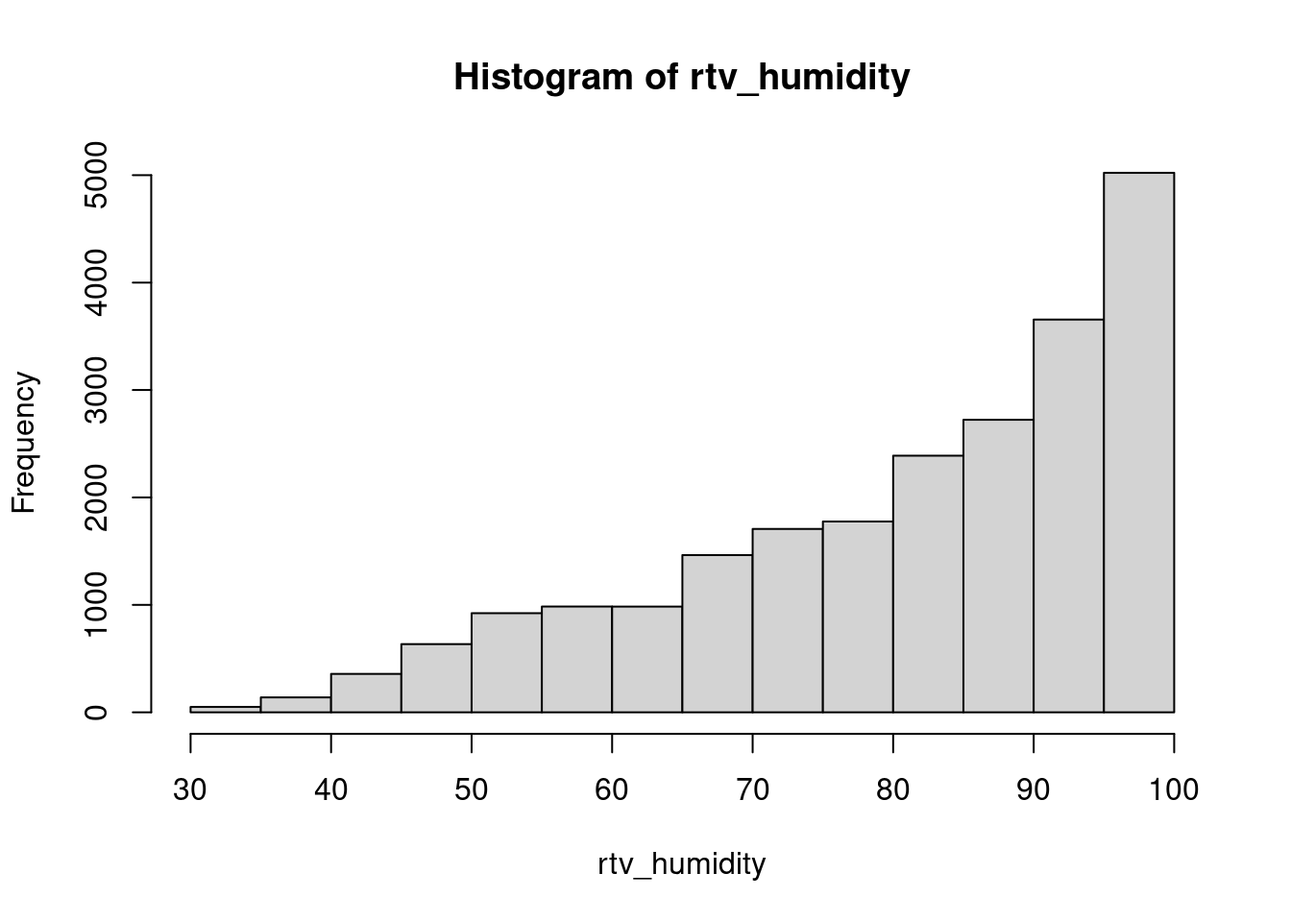
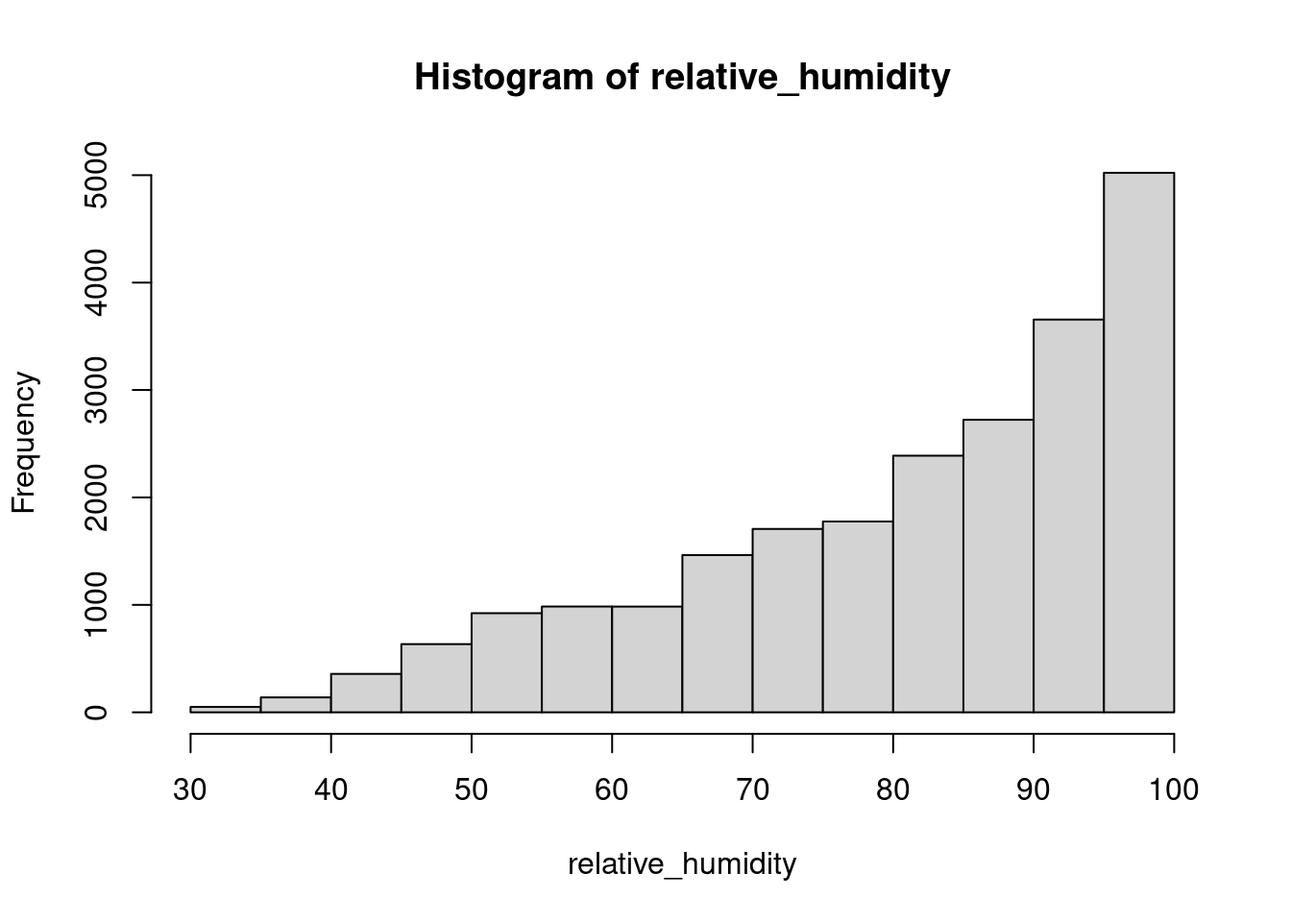
note

Changed region(s): [[0.3125, 0.0625, 0.75, 0.125], [0.4375, 0.9062, 0.625, 0.9688]]

diff --git a/docs/index.html b/docs/index.html
@@ -82,7 +82,7 @@ pre > code.sourceCode > span > a:first-child::before { text-decoration: underlin
   <li><a href="#data-and-packages" id="toc-data-and-packages" class="nav-link active" data-scroll-target="#data-and-packages">Data and Packages</a></li>
   <li><a href="#take-a-glimpse" id="toc-take-a-glimpse" class="nav-link" data-scroll-target="#take-a-glimpse">Take a glimpse</a></li>
   <li><a href="#basic-descriptive-statistic" id="toc-basic-descriptive-statistic" class="nav-link" data-scroll-target="#basic-descriptive-statistic">Basic descriptive statistic</a></li>
-  <li><a href="#distribution-of-the-t-and-h" id="toc-distribution-of-the-t-and-h" class="nav-link" data-scroll-target="#distribution-of-the-t-and-h">Distribution of the T and H</a></li>
+  <li><a href="#distribution-of-the-temperature-and-humidity" id="toc-distribution-of-the-temperature-and-humidity" class="nav-link" data-scroll-target="#distribution-of-the-temperature-and-humidity">Distribution of the Temperature and Humidity</a></li>
   <li><a href="#distribution-during-the-day-hourly" id="toc-distribution-during-the-day-hourly" class="nav-link" data-scroll-target="#distribution-during-the-day-hourly">Distribution during the day (Hourly)</a></li>
   <li><a href="#daily-max-and-min-distribution" id="toc-daily-max-and-min-distribution" class="nav-link" data-scroll-target="#daily-max-and-min-distribution">Daily Max and Min distribution</a></li>
   </ul>
@@ -141,7 +141,7 @@ $ temp_wew &lt;dbl&gt; 19.5, 20.5, 20.5, 20.0, 19.5, 18.5, 18.0, 17.5, 17.5, 17.
 $ rh       &lt;dbl&gt; 60.1, 57.6, 55.0, 53.9, 53.8, 55.0, 59.6, 61.5, 66.3, 66.9, 6…</code></pre>
 </div>
 </div>
-<p>Split the datetime column to filter with different through time variable</p>
+<p>Split the datetime column to filter through different time variable</p>
 <div class="cell">
 <div class="sourceCode cell-code" id="cb5"><pre class="sourceCode r code-with-copy"><code class="sourceCode r"><span id="cb5-1"><a href="#cb5-1" aria-hidden="true" tabindex="-1"></a>data2 <span class="ot">&lt;-</span> <span class="fu">separate</span>(file, <span class="at">col =</span> datetime, <span class="at">into =</span> <span class="fu">c</span>(<span class="st">"Date"</span>, <span class="st">"Time"</span>), <span class="at">sep =</span> <span class="st">" "</span>)</span>
 <span id="cb5-2"><a href="#cb5-2" aria-hidden="true" tabindex="-1"></a>data <span class="ot">&lt;-</span> <span class="fu">separate</span>(data2, <span class="at">col =</span> Date, <span class="at">into =</span> <span class="fu">c</span>(<span class="st">"Year"</span>, <span class="st">"Month"</span>, <span class="st">"Day"</span>), <span class="at">sep =</span> <span class="st">"-"</span>)</span></code><button title="Copy to Clipboard" class="code-copy-button"><i class="bi"></i></button></pre></div>
@@ -171,12 +171,12 @@ $ rh       &lt;dbl&gt; 60.1, 57.6, 55.0, 53.9, 53.8, 55.0, 59.6, 61.5, 66.3, 66.
                  NA's   :1583   </code></pre>
 </div>
 </div>
-<p>Generating the variance and Std</p>
+<p>Generating the variance and Standard deviation</p>
 <div class="cell">
 <div class="sourceCode cell-code" id="cb8"><pre class="sourceCode r code-with-copy"><code class="sourceCode r"><span id="cb8-1"><a href="#cb8-1" aria-hidden="true" tabindex="-1"></a>data <span class="sc">|&gt;</span> </span>
-<span id="cb8-2"><a href="#cb8-2" aria-hidden="true" tabindex="-1"></a>  <span class="fu">summarise</span>(<span class="at">VarT =</span> <span class="fu">var</span>(temp_wew), <span class="at">VarH =</span> <span class="fu">var</span>(rh, <span class="at">na.rm =</span> <span class="cn">TRUE</span>), <span class="at">StdT =</span> <span class="fu">sd</span>(temp_wew), <span class="at">StdH =</span> <span class="fu">sd</span>(rh, <span class="at">na.rm =</span> <span class="cn">TRUE</span>))</span></code><button title="Copy to Clipboard" class="code-copy-button"><i class="bi"></i></button></pre></div>
+<span id="cb8-2"><a href="#cb8-2" aria-hidden="true" tabindex="-1"></a>  <span class="fu">summarise</span>(<span class="at">Var_Temp =</span> <span class="fu">var</span>(temp_wew), <span class="at">Var_Hum =</span> <span class="fu">var</span>(rh, <span class="at">na.rm =</span> <span class="cn">TRUE</span>), <span class="at">Std_Temp =</span> <span class="fu">sd</span>(temp_wew), <span class="at">Std_Hum =</span> <span class="fu">sd</span>(rh, <span class="at">na.rm =</span> <span class="cn">TRUE</span>))</span></code><button title="Copy to Clipboard" class="code-copy-button"><i class="bi"></i></button></pre></div>
 <div class="cell-output cell-output-stdout">
-<pre><code>      VarT     VarH     StdT     StdH
+<pre><code>  Var_Temp  Var_Hum Std_Temp  Std_Hum
 1 11.76777 253.5742 3.430418 15.92401</code></pre>
 </div>
 </div>
@@ -184,10 +184,10 @@ $ rh       &lt;dbl&gt; 60.1, 57.6, 55.0, 53.9, 53.8, 55.0, 59.6, 61.5, 66.3, 66.
 <div class="sourceCode cell-code" id="cb10"><pre class="sourceCode r code-with-copy"><code class="sourceCode r"><span id="cb10-1"><a href="#cb10-1" aria-hidden="true" tabindex="-1"></a>file[<span class="st">"month"</span>] <span class="ot">&lt;-</span> data[[<span class="st">"Month"</span>]]</span></code><button title="Copy to Clipboard" class="code-copy-button"><i class="bi"></i></button></pre></div>
 </div>
 </section>
-<section id="distribution-of-the-t-and-h" class="level3">
-<h3 class="anchored" data-anchor-id="distribution-of-the-t-and-h">Distribution of the T and H</h3>
+<section id="distribution-of-the-temperature-and-humidity" class="level3">
+<h3 class="anchored" data-anchor-id="distribution-of-the-temperature-and-humidity">Distribution of the Temperature and Humidity</h3>
 <div class="cell">
-<div class="sourceCode cell-code" id="cb11"><pre class="sourceCode r code-with-copy"><code class="sourceCode r"><span id="cb11-1"><a href="#cb11-1" aria-hidden="true" tabindex="-1"></a><span class="co"># Distributio of Temperature</span></span>
+<div class="sourceCode cell-code" id="cb11"><pre class="sourceCode r code-with-copy"><code class="sourceCode r"><span id="cb11-1"><a href="#cb11-1" aria-hidden="true" tabindex="-1"></a><span class="co"># Distribution of Temperature</span></span>
 <span id="cb11-2"><a href="#cb11-2" aria-hidden="true" tabindex="-1"></a>Temperature <span class="ot">&lt;-</span> file<span class="sc">$</span>temp_wew</span>
 <span id="cb11-3"><a href="#cb11-3" aria-hidden="true" tabindex="-1"></a><span class="fu">hist</span>(Temperature)</span></code><button title="Copy to Clipboard" class="code-copy-button"><i class="bi"></i></button></pre></div>
 <div class="cell-output-display">
@@ -201,8 +201,8 @@ $ rh       &lt;dbl&gt; 60.1, 57.6, 55.0, 53.9, 53.8, 55.0, 59.6, 61.5, 66.3, 66.
 <p>Temperature distribution is normally distributed, but there is appearance of almost two peaks.</p>
 <div class="cell">
 <div class="sourceCode cell-code" id="cb12"><pre class="sourceCode r code-with-copy"><code class="sourceCode r"><span id="cb12-1"><a href="#cb12-1" aria-hidden="true" tabindex="-1"></a><span class="co"># Distributio of Humidity</span></span>
-<span id="cb12-2"><a href="#cb12-2" aria-hidden="true" tabindex="-1"></a>rtv_humidity <span class="ot">&lt;-</span> file<span class="sc">$</span>rh</span>
-<span id="cb12-3"><a href="#cb12-3" aria-hidden="true" tabindex="-1"></a><span class="fu">hist</span>(rtv_humidity)</span></code><button title="Copy to Clipboard" class="code-copy-button"><i class="bi"></i></button></pre></div>
+<span id="cb12-2"><a href="#cb12-2" aria-hidden="true" tabindex="-1"></a>relative_humidity <span class="ot">&lt;-</span> file<span class="sc">$</span>rh</span>
+<span id="cb12-3"><a href="#cb12-3" aria-hidden="true" tabindex="-1"></a><span class="fu">hist</span>(relative_humidity)</span></code><button title="Copy to Clipboard" class="code-copy-button"><i class="bi"></i></button></pre></div>
 <div class="cell-output-display">
 <div>
 <figure class="figure">
@@ -212,12 +212,18 @@ $ rh       &lt;dbl&gt; 60.1, 57.6, 55.0, 53.9, 53.8, 55.0, 59.6, 61.5, 66.3, 66.
 </div>
 </div>
 <p>Humidity distribution is not normally distributed over the year. higher humidity is prevalent</p>
-<p><em>Temperature Distribuion indicating different month of the year</em></p>
+<p><em>Temperature Distribution indicating different month of the year</em></p>
 <div class="cell">
 <div class="sourceCode cell-code" id="cb13"><pre class="sourceCode r code-with-copy"><code class="sourceCode r"><span id="cb13-1"><a href="#cb13-1" aria-hidden="true" tabindex="-1"></a>file <span class="sc">|&gt;</span> </span>
 <span id="cb13-2"><a href="#cb13-2" aria-hidden="true" tabindex="-1"></a>  <span class="fu">ggplot</span>(<span class="fu">aes</span>(<span class="at">x=</span> datetime, <span class="at">y =</span> temp_wew, <span class="at">colour =</span> month)) <span class="sc">+</span></span>
 <span id="cb13-3"><a href="#cb13-3" aria-hidden="true" tabindex="-1"></a>  <span class="fu">geom_point</span>()<span class="sc">+</span></span>
-<span id="cb13-4"><a href="#cb13-4" aria-hidden="true" tabindex="-1"></a>  <span class="fu">geom_hline</span>(<span class="at">yintercept =</span> <span class="dv">23</span>)</span></code><button title="Copy to Clipboard" class="code-copy-button"><i class="bi"></i></button></pre></div>
+<span id="cb13-4"><a href="#cb13-4" aria-hidden="true" tabindex="-1"></a>  <span class="fu">geom_hline</span>(<span class="at">yintercept =</span> <span class="dv">23</span>) <span class="sc">+</span></span>
+<span id="cb13-5"><a href="#cb13-5" aria-hidden="true" tabindex="-1"></a>  <span class="fu">labs</span>(</span>
+<span id="cb13-6"><a href="#cb13-6" aria-hidden="true" tabindex="-1"></a>    <span class="at">title =</span> <span class="st">"Daily Distribution of Temperature"</span>,</span>
+<span id="cb13-7"><a href="#cb13-7" aria-hidden="true" tabindex="-1"></a>      <span class="at">x =</span> <span class="st">"Day Time"</span>,</span>
+<span id="cb13-8"><a href="#cb13-8" aria-hidden="true" tabindex="-1"></a>      <span class="at">y =</span> <span class="st">"Average Temperature (°C)"</span>,</span>
+<span id="cb13-9"><a href="#cb13-9" aria-hidden="true" tabindex="-1"></a>      <span class="at">colour =</span> <span class="st">"Month"</span></span>
+<span id="cb13-10"><a href="#cb13-10" aria-hidden="true" tabindex="-1"></a>  )</span></code><button title="Copy to Clipboard" class="code-copy-button"><i class="bi"></i></button></pre></div>
 <div class="cell-output-display">
 <div>
 <figure class="figure">
@@ -234,7 +240,12 @@ $ rh       &lt;dbl&gt; 60.1, 57.6, 55.0, 53.9, 53.8, 55.0, 59.6, 61.5, 66.3, 66.
 <span id="cb14-3"><a href="#cb14-3" aria-hidden="true" tabindex="-1"></a>  <span class="fu">summarise</span>(<span class="at">AverageT =</span> <span class="fu">mean</span>(temp_wew), <span class="at">AverageH =</span> <span class="fu">mean</span>(rh, <span class="at">na.rm =</span> <span class="cn">TRUE</span>)) <span class="sc">|&gt;</span> </span>
 <span id="cb14-4"><a href="#cb14-4" aria-hidden="true" tabindex="-1"></a>    <span class="fu">ggplot</span>(<span class="fu">aes</span>(<span class="at">x =</span> Month,<span class="at">y =</span>AverageT, <span class="at">group =</span> <span class="dv">1</span>)) <span class="sc">+</span></span>
 <span id="cb14-5"><a href="#cb14-5" aria-hidden="true" tabindex="-1"></a>  <span class="fu">geom_line</span>(<span class="at">colour =</span> <span class="st">"blue"</span>) <span class="sc">+</span></span>
-<span id="cb14-6"><a href="#cb14-6" aria-hidden="true" tabindex="-1"></a>  <span class="fu">geom_point</span>() </span></code><button title="Copy to Clipboard" class="code-copy-button"><i class="bi"></i></button></pre></div>
+<span id="cb14-6"><a href="#cb14-6" aria-hidden="true" tabindex="-1"></a>  <span class="fu">geom_point</span>() <span class="sc">+</span></span>
+<span id="cb14-7"><a href="#cb14-7" aria-hidden="true" tabindex="-1"></a>  <span class="fu">labs</span>(</span>
+<span id="cb14-8"><a href="#cb14-8" aria-hidden="true" tabindex="-1"></a>    <span class="at">title =</span> <span class="st">"Monthly Distribution of Temperature"</span>,</span>
+<span id="cb14-9"><a href="#cb14-9" aria-hidden="true" tabindex="-1"></a>      <span class="at">x =</span> <span class="st">"Month of the year"</span>,</span>
+<span id="cb14-10"><a href="#cb14-10" aria-hidden="true" tabindex="-1"></a>      <span class="at">y =</span> <span class="st">"Average Temperature (°C)"</span></span>
+<span id="cb14-11"><a href="#cb14-11" aria-hidden="true" tabindex="-1"></a>  )</span></code><button title="Copy to Clipboard" class="code-copy-button"><i class="bi"></i></button></pre></div>
 <div class="cell-output-display">
 <div>
 <figure class="figure">
@@ -247,7 +258,12 @@ $ rh       &lt;dbl&gt; 60.1, 57.6, 55.0, 53.9, 53.8, 55.0, 59.6, 61.5, 66.3, 66.
 <div class="cell">
 <div class="sourceCode cell-code" id="cb15"><pre class="sourceCode r code-with-copy"><code class="sourceCode r"><span id="cb15-1"><a href="#cb15-1" aria-hidden="true" tabindex="-1"></a>data <span class="sc">|&gt;</span> </span>
 <span id="cb15-2"><a href="#cb15-2" aria-hidden="true" tabindex="-1"></a>  <span class="fu">ggplot</span>(<span class="fu">aes</span>(<span class="at">y =</span> temp_wew, <span class="at">x =</span> Month))<span class="sc">+</span></span>
-<span id="cb15-3"><a href="#cb15-3" aria-hidden="true" tabindex="-1"></a>  <span class="fu">geom_boxplot</span>()</span></code><button title="Copy to Clipboard" class="code-copy-button"><i class="bi"></i></button></pre></div>
+<span id="cb15-3"><a href="#cb15-3" aria-hidden="true" tabindex="-1"></a>  <span class="fu">geom_boxplot</span>()  <span class="sc">+</span></span>
+<span id="cb15-4"><a href="#cb15-4" aria-hidden="true" tabindex="-1"></a>  <span class="fu">labs</span>(</span>
+<span id="cb15-5"><a href="#cb15-5" aria-hidden="true" tabindex="-1"></a>    <span class="at">title =</span> <span class="st">"Monthly Distribution of Temperature"</span>,</span>
+<span id="cb15-6"><a href="#cb15-6" aria-hidden="true" tabindex="-1"></a>      <span class="at">x =</span> <span class="st">"Month of the year"</span>,</span>
+<span id="cb15-7"><a href="#cb15-7" aria-hidden="true" tabindex="-1"></a>      <span class="at">y =</span> <span class="st">"Average Temperature (°C)"</span></span>
+<span id="cb15-8"><a href="#cb15-8" aria-hidden="true" tabindex="-1"></a>  )</span></code><button title="Copy to Clipboard" class="code-copy-button"><i class="bi"></i></button></pre></div>
 <div class="cell-output-display">
 <div>
 <figure class="figure">
@@ -260,7 +276,13 @@ $ rh       &lt;dbl&gt; 60.1, 57.6, 55.0, 53.9, 53.8, 55.0, 59.6, 61.5, 66.3, 66.
 <div class="cell">
 <div class="sourceCode cell-code" id="cb16"><pre class="sourceCode r code-with-copy"><code class="sourceCode r"><span id="cb16-1"><a href="#cb16-1" aria-hidden="true" tabindex="-1"></a>file <span class="sc">|&gt;</span> </span>
 <span id="cb16-2"><a href="#cb16-2" aria-hidden="true" tabindex="-1"></a>  <span class="fu">ggplot</span>(<span class="fu">aes</span>(<span class="at">x=</span> datetime, <span class="at">y =</span> rh, <span class="at">colour =</span> month)) <span class="sc">+</span></span>
-<span id="cb16-3"><a href="#cb16-3" aria-hidden="true" tabindex="-1"></a>  <span class="fu">geom_point</span>()</span></code><button title="Copy to Clipboard" class="code-copy-button"><i class="bi"></i></button></pre></div>
+<span id="cb16-3"><a href="#cb16-3" aria-hidden="true" tabindex="-1"></a>  <span class="fu">geom_point</span>() <span class="sc">+</span></span>
+<span id="cb16-4"><a href="#cb16-4" aria-hidden="true" tabindex="-1"></a>  <span class="fu">labs</span>(</span>
+<span id="cb16-5"><a href="#cb16-5" aria-hidden="true" tabindex="-1"></a>    <span class="at">title =</span> <span class="st">"Daily Distribution of Temperature"</span>,</span>
+<span id="cb16-6"><a href="#cb16-6" aria-hidden="true" tabindex="-1"></a>      <span class="at">x =</span> <span class="st">"Day Time"</span>,</span>
+<span id="cb16-7"><a href="#cb16-7" aria-hidden="true" tabindex="-1"></a>      <span class="at">y =</span> <span class="st">"Average Temperature (°C)"</span>,</span>
+<span id="cb16-8"><a href="#cb16-8" aria-hidden="true" tabindex="-1"></a>      <span class="at">colour =</span> <span class="st">"Month"</span></span>
+<span id="cb16-9"><a href="#cb16-9" aria-hidden="true" tabindex="-1"></a>  )</span></code><button title="Copy to Clipboard" class="code-copy-button"><i class="bi"></i></button></pre></div>
 <div class="cell-output cell-output-stderr">
 <pre><code>Warning: Removed 1583 rows containing missing values or values outside the scale range
 (`geom_point()`).</code></pre>
@@ -280,7 +302,12 @@ $ rh       &lt;dbl&gt; 60.1, 57.6, 55.0, 53.9, 53.8, 55.0, 59.6, 61.5, 66.3, 66.
 <span id="cb18-3"><a href="#cb18-3" aria-hidden="true" tabindex="-1"></a>  <span class="fu">summarise</span>(<span class="at">AverageT =</span> <span class="fu">mean</span>(temp_wew), <span class="at">AverageH =</span> <span class="fu">mean</span>(rh, <span class="at">na.rm =</span> <span class="cn">TRUE</span>)) <span class="sc">|&gt;</span> </span>
 <span id="cb18-4"><a href="#cb18-4" aria-hidden="true" tabindex="-1"></a>    <span class="fu">ggplot</span>(<span class="fu">aes</span>(<span class="at">x =</span> Month,<span class="at">y =</span>AverageH, <span class="at">group =</span> <span class="dv">1</span>)) <span class="sc">+</span></span>
 <span id="cb18-5"><a href="#cb18-5" aria-hidden="true" tabindex="-1"></a>  <span class="fu">geom_line</span>(<span class="at">colour =</span> <span class="st">"green"</span>) <span class="sc">+</span></span>
-<span id="cb18-6"><a href="#cb18-6" aria-hidden="true" tabindex="-1"></a>  <span class="fu">geom_point</span>() </span></code><button title="Copy to Clipboard" class="code-copy-button"><i class="bi"></i></button></pre></div>
+<span id="cb18-6"><a href="#cb18-6" aria-hidden="true" tabindex="-1"></a>  <span class="fu">geom_point</span>()  <span class="sc">+</span></span>
+<span id="cb18-7"><a href="#cb18-7" aria-hidden="true" tabindex="-1"></a>  <span class="fu">labs</span>(</span>
+<span id="cb18-8"><a href="#cb18-8" aria-hidden="true" tabindex="-1"></a>    <span class="at">title =</span> <span class="st">"Monthly Distribution of Relative Humidity"</span>,</span>
+<span id="cb18-9"><a href="#cb18-9" aria-hidden="true" tabindex="-1"></a>      <span class="at">x =</span> <span class="st">"Month of the year"</span>,</span>
+<span id="cb18-10"><a href="#cb18-10" aria-hidden="true" tabindex="-1"></a>      <span class="at">y =</span> <span class="st">"Average Relative Humidity (%)"</span></span>
+<span id="cb18-11"><a href="#cb18-11" aria-hidden="true" tabindex="-1"></a>  )</span></code><button title="Copy to Clipboard" class="code-copy-button"><i class="bi"></i></button></pre></div>
 <div class="cell-output-display">
 <div>
 <figure class="figure">
@@ -293,7 +320,12 @@ $ rh       &lt;dbl&gt; 60.1, 57.6, 55.0, 53.9, 53.8, 55.0, 59.6, 61.5, 66.3, 66.
 <div class="cell">
 <div class="sourceCode cell-code" id="cb19"><pre class="sourceCode r code-with-copy"><code class="sourceCode r"><span id="cb19-1"><a href="#cb19-1" aria-hidden="true" tabindex="-1"></a>data <span class="sc">|&gt;</span> </span>
 <span id="cb19-2"><a href="#cb19-2" aria-hidden="true" tabindex="-1"></a>  <span class="fu">ggplot</span>(<span class="fu">aes</span>(<span class="at">y =</span> rh, <span class="at">x =</span> Month))<span class="sc">+</span></span>
-<span id="cb19-3"><a href="#cb19-3" aria-hidden="true" tabindex="-1"></a>  <span class="fu">geom_boxplot</span>()</span></code><button title="Copy to Clipboard" class="code-copy-button"><i class="bi"></i></button></pre></div>
+<span id="cb19-3"><a href="#cb19-3" aria-hidden="true" tabindex="-1"></a>  <span class="fu">geom_boxplot</span>()  <span class="sc">+</span></span>
+<span id="cb19-4"><a href="#cb19-4" aria-hidden="true" tabindex="-1"></a>  <span class="fu">labs</span>(</span>
+<span id="cb19-5"><a href="#cb19-5" aria-hidden="true" tabindex="-1"></a>    <span class="at">title =</span> <span class="st">"Monthly Distribution of Relative Humidity"</span>,</span>
+<span id="cb19-6"><a href="#cb19-6" aria-hidden="true" tabindex="-1"></a>      <span class="at">x =</span> <span class="st">"Month of the year"</span>,</span>
+<span id="cb19-7"><a href="#cb19-7" aria-hidden="true" tabindex="-1"></a>      <span class="at">y =</span> <span class="st">"Average Relative Humidity (%)"</span></span>
+<span id="cb19-8"><a href="#cb19-8" aria-hidden="true" tabindex="-1"></a>  )</span></code><button title="Copy to Clipboard" class="code-copy-button"><i class="bi"></i></button></pre></div>
 <div class="cell-output cell-output-stderr">
 <pre><code>Warning: Removed 1583 rows containing non-finite outside the scale range
 (`stat_boxplot()`).</code></pre>
@@ -318,7 +350,12 @@ $ rh       &lt;dbl&gt; 60.1, 57.6, 55.0, 53.9, 53.8, 55.0, 59.6, 61.5, 66.3, 66.
 <span id="cb21-4"><a href="#cb21-4" aria-hidden="true" tabindex="-1"></a>  <span class="fu">ggplot</span>(<span class="fu">aes</span>(<span class="at">x =</span> Time,<span class="at">y =</span>AverageT, <span class="at">group =</span> <span class="dv">1</span>)) <span class="sc">+</span></span>
 <span id="cb21-5"><a href="#cb21-5" aria-hidden="true" tabindex="-1"></a>  <span class="fu">geom_line</span>(<span class="at">colour =</span> <span class="st">"blue"</span>) <span class="sc">+</span></span>
 <span id="cb21-6"><a href="#cb21-6" aria-hidden="true" tabindex="-1"></a>  <span class="fu">geom_point</span>() <span class="sc">+</span></span>
-<span id="cb21-7"><a href="#cb21-7" aria-hidden="true" tabindex="-1"></a>  <span class="fu">theme</span>(<span class="at">axis.text.x =</span> <span class="fu">element_text</span>(<span class="at">angle =</span> <span class="dv">45</span>, <span class="at">hjust =</span> <span class="dv">1</span>))</span></code><button title="Copy to Clipboard" class="code-copy-button"><i class="bi"></i></button></pre></div>
+<span id="cb21-7"><a href="#cb21-7" aria-hidden="true" tabindex="-1"></a>  <span class="fu">labs</span>(</span>
+<span id="cb21-8"><a href="#cb21-8" aria-hidden="true" tabindex="-1"></a>    <span class="at">title =</span> <span class="st">"Hourly Distribution of Temperature"</span>,</span>
+<span id="cb21-9"><a href="#cb21-9" aria-hidden="true" tabindex="-1"></a>      <span class="at">x =</span> <span class="st">"Day Time (Hour)"</span>,</span>
+<span id="cb21-10"><a href="#cb21-10" aria-hidden="true" tabindex="-1"></a>      <span class="at">y =</span> <span class="st">"Average Temperature (°C)"</span></span>
+<span id="cb21-11"><a href="#cb21-11" aria-hidden="true" tabindex="-1"></a>  ) <span class="sc">+</span></span>
+<span id="cb21-12"><a href="#cb21-12" aria-hidden="true" tabindex="-1"></a>  <span class="fu">theme</span>(<span class="at">axis.text.x =</span> <span class="fu">element_text</span>(<span class="at">angle =</span> <span class="dv">45</span>, <span class="at">hjust =</span> <span class="dv">1</span>))</span></code><button title="Copy to Clipboard" class="code-copy-button"><i class="bi"></i></button></pre></div>
 <div class="cell-output-display">
 <div>
 <figure class="figure">
@@ -336,7 +373,12 @@ $ rh       &lt;dbl&gt; 60.1, 57.6, 55.0, 53.9, 53.8, 55.0, 59.6, 61.5, 66.3, 66.
 <span id="cb22-5"><a href="#cb22-5" aria-hidden="true" tabindex="-1"></a>  <span class="fu">ggplot</span>(<span class="fu">aes</span>(<span class="at">x =</span> Time,<span class="at">y =</span>AverageT, <span class="at">group =</span> <span class="dv">1</span>)) <span class="sc">+</span></span>
 <span id="cb22-6"><a href="#cb22-6" aria-hidden="true" tabindex="-1"></a>  <span class="fu">geom_line</span>(<span class="at">colour =</span> <span class="st">"blue"</span>) <span class="sc">+</span></span>
 <span id="cb22-7"><a href="#cb22-7" aria-hidden="true" tabindex="-1"></a>  <span class="fu">geom_point</span>() <span class="sc">+</span></span>
-<span id="cb22-8"><a href="#cb22-8" aria-hidden="true" tabindex="-1"></a>  <span class="fu">theme</span>(<span class="at">axis.text.x =</span> <span class="fu">element_text</span>(<span class="at">angle =</span> <span class="dv">45</span>, <span class="at">hjust =</span> <span class="dv">1</span>))</span></code><button title="Copy to Clipboard" class="code-copy-button"><i class="bi"></i></button></pre></div>
+<span id="cb22-8"><a href="#cb22-8" aria-hidden="true" tabindex="-1"></a>  <span class="fu">labs</span>(</span>
+<span id="cb22-9"><a href="#cb22-9" aria-hidden="true" tabindex="-1"></a>    <span class="at">title =</span> <span class="st">"Hourly Distribution of Temperature"</span>,</span>
+<span id="cb22-10"><a href="#cb22-10" aria-hidden="true" tabindex="-1"></a>      <span class="at">x =</span> <span class="st">"Day Time (Hour)"</span>,</span>
+<span id="cb22-11"><a href="#cb22-11" aria-hidden="true" tabindex="-1"></a>      <span class="at">y =</span> <span class="st">"Average Temperature (°C)"</span></span>
+<span id="cb22-12"><a href="#cb22-12" aria-hidden="true" tabindex="-1"></a>  ) <span class="sc">+</span></span>
+<span id="cb22-13"><a href="#cb22-13" aria-hidden="true" tabindex="-1"></a>  <span class="fu">theme</span>(<span class="at">axis.text.x =</span> <span class="fu">element_text</span>(<span class="at">angle =</span> <span class="dv">45</span>, <span class="at">hjust =</span> <span class="dv">1</span>))</span></code><button title="Copy to Clipboard" class="code-copy-button"><i class="bi"></i></button></pre></div>
 <div class="cell-output-display">
 <div>
 <figure class="figure">
@@ -352,8 +394,13 @@ $ rh       &lt;dbl&gt; 60.1, 57.6, 55.0, 53.9, 53.8, 55.0, 59.6, 61.5, 66.3, 66.
 <span id="cb23-3"><a href="#cb23-3" aria-hidden="true" tabindex="-1"></a>  <span class="fu">summarise</span>(<span class="at">AverageT =</span> <span class="fu">mean</span>(temp_wew), <span class="at">AverageH =</span> <span class="fu">mean</span>(rh, <span class="at">na.rm =</span> <span class="cn">TRUE</span>)) <span class="sc">|&gt;</span> </span>
 <span id="cb23-4"><a href="#cb23-4" aria-hidden="true" tabindex="-1"></a>  <span class="fu">ggplot</span>(<span class="fu">aes</span>(<span class="at">x =</span> Time,<span class="at">y =</span>AverageH, <span class="at">group =</span> <span class="dv">1</span>)) <span class="sc">+</span></span>
 <span id="cb23-5"><a href="#cb23-5" aria-hidden="true" tabindex="-1"></a>  <span class="fu">geom_line</span>(<span class="at">colour =</span> <span class="st">"red"</span>) <span class="sc">+</span></span>
-<span id="cb23-6"><a href="#cb23-6" aria-hidden="true" tabindex="-1"></a>  <span class="fu">geom_point</span>() <span class="sc">+</span></span>
-<span id="cb23-7"><a href="#cb23-7" aria-hidden="true" tabindex="-1"></a>  <span class="fu">theme</span>(<span class="at">axis.text.x =</span> <span class="fu">element_text</span>(<span class="at">angle =</span> <span class="dv">45</span>, <span class="at">hjust =</span> <span class="dv">1</span>))</span></code><button title="Copy to Clipboard" class="code-copy-button"><i class="bi"></i></button></pre></div>
+<span id="cb23-6"><a href="#cb23-6" aria-hidden="true" tabindex="-1"></a>  <span class="fu">geom_point</span>()  <span class="sc">+</span></span>
+<span id="cb23-7"><a href="#cb23-7" aria-hidden="true" tabindex="-1"></a>  <span class="fu">labs</span>(</span>
+<span id="cb23-8"><a href="#cb23-8" aria-hidden="true" tabindex="-1"></a>    <span class="at">title =</span> <span class="st">"Hourly Distribution of Relative Humidity"</span>,</span>
+<span id="cb23-9"><a href="#cb23-9" aria-hidden="true" tabindex="-1"></a>      <span class="at">x =</span> <span class="st">"Day Time (Hour)"</span>,</span>
+<span id="cb23-10"><a href="#cb23-10" aria-hidden="true" tabindex="-1"></a>      <span class="at">y =</span> <span class="st">"Average Relative Humidity (%)"</span></span>
+<span id="cb23-11"><a href="#cb23-11" aria-hidden="true" tabindex="-1"></a>  ) <span class="sc">+</span></span>
+<span id="cb23-12"><a href="#cb23-12" aria-hidden="true" tabindex="-1"></a>  <span class="fu">theme</span>(<span class="at">axis.text.x =</span> <span class="fu">element_text</span>(<span class="at">angle =</span> <span class="dv">45</span>, <span class="at">hjust =</span> <span class="dv">1</span>))</span></code><button title="Copy to Clipboard" class="code-copy-button"><i class="bi"></i></button></pre></div>
 <div class="cell-output-display">
 <div>
 <figure class="figure">
@@ -370,8 +417,13 @@ $ rh       &lt;dbl&gt; 60.1, 57.6, 55.0, 53.9, 53.8, 55.0, 59.6, 61.5, 66.3, 66.
 <span id="cb24-4"><a href="#cb24-4" aria-hidden="true" tabindex="-1"></a>  <span class="fu">summarise</span>(<span class="at">AverageT =</span> <span class="fu">mean</span>(temp_wew), <span class="at">AverageH =</span> <span class="fu">mean</span>(rh, <span class="at">na.rm =</span> <span class="cn">TRUE</span>)) <span class="sc">|&gt;</span> </span>
 <span id="cb24-5"><a href="#cb24-5" aria-hidden="true" tabindex="-1"></a>  <span class="fu">ggplot</span>(<span class="fu">aes</span>(<span class="at">x =</span> Time,<span class="at">y =</span>AverageH, <span class="at">group =</span> <span class="dv">1</span>)) <span class="sc">+</span></span>
 <span id="cb24-6"><a href="#cb24-6" aria-hidden="true" tabindex="-1"></a>  <span class="fu">geom_line</span>(<span class="at">colour =</span> <span class="st">"red"</span>) <span class="sc">+</span></span>
-<span id="cb24-7"><a href="#cb24-7" aria-hidden="true" tabindex="-1"></a>  <span class="fu">geom_point</span>() <span class="sc">+</span></span>
-<span id="cb24-8"><a href="#cb24-8" aria-hidden="true" tabindex="-1"></a>  <span class="fu">theme</span>(<span class="at">axis.text.x =</span> <span class="fu">element_text</span>(<span class="at">angle =</span> <span class="dv">45</span>, <span class="at">hjust =</span> <span class="dv">1</span>))</span></code><button title="Copy to Clipboard" class="code-copy-button"><i class="bi"></i></button></pre></div>
+<span id="cb24-7"><a href="#cb24-7" aria-hidden="true" tabindex="-1"></a>  <span class="fu">geom_point</span>() <span class="sc">+</span>   </span>
+<span id="cb24-8"><a href="#cb24-8" aria-hidden="true" tabindex="-1"></a>  <span class="fu">labs</span>(</span>
+<span id="cb24-9"><a href="#cb24-9" aria-hidden="true" tabindex="-1"></a>    <span class="at">title =</span> <span class="st">"Hourly Distribution of Relative Humidity"</span>,</span>
+<span id="cb24-10"><a href="#cb24-10" aria-hidden="true" tabindex="-1"></a>      <span class="at">x =</span> <span class="st">"Day Time (Hour)"</span>,</span>
+<span id="cb24-11"><a href="#cb24-11" aria-hidden="true" tabindex="-1"></a>      <span class="at">y =</span> <span class="st">"Average Relative Humidity (%)"</span></span>
+<span id="cb24-12"><a href="#cb24-12" aria-hidden="true" tabindex="-1"></a>  ) <span class="sc">+</span></span>
+<span id="cb24-13"><a href="#cb24-13" aria-hidden="true" tabindex="-1"></a>  <span class="fu">theme</span>(<span class="at">axis.text.x =</span> <span class="fu">element_text</span>(<span class="at">angle =</span> <span class="dv">45</span>, <span class="at">hjust =</span> <span class="dv">1</span>))</span></code><button title="Copy to Clipboard" class="code-copy-button"><i class="bi"></i></button></pre></div>
 <div class="cell-output-display">
 <div>
 <figure class="figure">
@@ -390,7 +442,14 @@ $ rh       &lt;dbl&gt; 60.1, 57.6, 55.0, 53.9, 53.8, 55.0, 59.6, 61.5, 66.3, 66.
 <span id="cb25-3"><a href="#cb25-3" aria-hidden="true" tabindex="-1"></a>  <span class="fu">summarise</span>(<span class="at">Tmax =</span> <span class="fu">max</span>(temp_wew), <span class="at">Tmin =</span> <span class="fu">min</span>(temp_wew)) <span class="sc">|&gt;</span> </span>
 <span id="cb25-4"><a href="#cb25-4" aria-hidden="true" tabindex="-1"></a>  <span class="fu">ggplot</span>() <span class="sc">+</span></span>
 <span id="cb25-5"><a href="#cb25-5" aria-hidden="true" tabindex="-1"></a>  <span class="fu">geom_point</span>(<span class="fu">aes</span>(<span class="at">x=</span> Date,<span class="at">y =</span> Tmax), <span class="at">color =</span> <span class="st">"red"</span>) <span class="sc">+</span></span>
-<span id="cb25-6"><a href="#cb25-6" aria-hidden="true" tabindex="-1"></a>  <span class="fu">geom_point</span>(<span class="fu">aes</span>(<span class="at">x=</span> Date,<span class="at">y =</span> Tmin), <span class="at">color =</span> <span class="st">"blue"</span>) </span></code><button title="Copy to Clipboard" class="code-copy-button"><i class="bi"></i></button></pre></div>
+<span id="cb25-6"><a href="#cb25-6" aria-hidden="true" tabindex="-1"></a>  <span class="fu">geom_point</span>(<span class="fu">aes</span>(<span class="at">x=</span> Date,<span class="at">y =</span> Tmin), <span class="at">color =</span> <span class="st">"blue"</span>)  <span class="sc">+</span></span>
+<span id="cb25-7"><a href="#cb25-7" aria-hidden="true" tabindex="-1"></a>  <span class="fu">labs</span>(</span>
+<span id="cb25-8"><a href="#cb25-8" aria-hidden="true" tabindex="-1"></a>    <span class="at">title =</span> <span class="st">"Distribution of Maximum and Minimum Daily Temperature"</span>,</span>
+<span id="cb25-9"><a href="#cb25-9" aria-hidden="true" tabindex="-1"></a>      <span class="at">x =</span> <span class="st">"Day Time"</span>,</span>
+<span id="cb25-10"><a href="#cb25-10" aria-hidden="true" tabindex="-1"></a>      <span class="at">y =</span> <span class="st">"Temperature (°C)"</span>,</span>
+<span id="cb25-11"><a href="#cb25-11" aria-hidden="true" tabindex="-1"></a>    <span class="at">caption =</span> <span class="st">"Red points indicates the daily maximum temperature</span></span>
+<span id="cb25-12"><a href="#cb25-12" aria-hidden="true" tabindex="-1"></a><span class="st">     while the blue is the minimum temperature"</span></span>
+<span id="cb25-13"><a href="#cb25-13" aria-hidden="true" tabindex="-1"></a>  )</span></code><button title="Copy to Clipboard" class="code-copy-button"><i class="bi"></i></button></pre></div>
 <div class="cell-output-display">
 <div>
 <figure class="figure">
@@ -406,7 +465,14 @@ $ rh       &lt;dbl&gt; 60.1, 57.6, 55.0, 53.9, 53.8, 55.0, 59.6, 61.5, 66.3, 66.
 <span id="cb26-3"><a href="#cb26-3" aria-hidden="true" tabindex="-1"></a>  <span class="fu">summarise</span>(<span class="at">Hmax =</span> <span class="fu">max</span>(rh), <span class="at">Hmin =</span> <span class="fu">min</span>(rh)) <span class="sc">|&gt;</span> </span>
 <span id="cb26-4"><a href="#cb26-4" aria-hidden="true" tabindex="-1"></a>  <span class="fu">ggplot</span>() <span class="sc">+</span></span>
 <span id="cb26-5"><a href="#cb26-5" aria-hidden="true" tabindex="-1"></a>  <span class="fu">geom_point</span>(<span class="fu">aes</span>(<span class="at">x=</span> Date,<span class="at">y =</span> Hmax), <span class="at">color =</span> <span class="st">"red"</span>) <span class="sc">+</span></span>
-<span id="cb26-6"><a href="#cb26-6" aria-hidden="true" tabindex="-1"></a>  <span class="fu">geom_point</span>(<span class="fu">aes</span>(<span class="at">x=</span> Date,<span class="at">y =</span> Hmin, <span class="at">group =</span> <span class="dv">1</span>), <span class="at">color =</span> <span class="st">"blue"</span>) </span></code><button title="Copy to Clipboard" class="code-copy-button"><i class="bi"></i></button></pre></div>
+<span id="cb26-6"><a href="#cb26-6" aria-hidden="true" tabindex="-1"></a>  <span class="fu">geom_point</span>(<span class="fu">aes</span>(<span class="at">x=</span> Date,<span class="at">y =</span> Hmin, <span class="at">group =</span> <span class="dv">1</span>), <span class="at">color =</span> <span class="st">"blue"</span>)   <span class="sc">+</span></span>
+<span id="cb26-7"><a href="#cb26-7" aria-hidden="true" tabindex="-1"></a>  <span class="fu">labs</span>(</span>
+<span id="cb26-8"><a href="#cb26-8" aria-hidden="true" tabindex="-1"></a>    <span class="at">title =</span> <span class="st">"Distribution of Maximum and Minimum Daily Relative Humidity"</span>,</span>
+<span id="cb26-9"><a href="#cb26-9" aria-hidden="true" tabindex="-1"></a>      <span class="at">x =</span> <span class="st">"Day Time"</span>,</span>
+<span id="cb26-10"><a href="#cb26-10" aria-hidden="true" tabindex="-1"></a>      <span class="at">y =</span> <span class="st">"Relative humidity (%)"</span>,</span>
+<span id="cb26-11"><a href="#cb26-11" aria-hidden="true" tabindex="-1"></a>    <span class="at">caption =</span> <span class="st">"Red points indicates the daily maximum Relative humidity</span></span>
+<span id="cb26-12"><a href="#cb26-12" aria-hidden="true" tabindex="-1"></a><span class="st">     while the blue is the minimum humidity"</span></span>
+<span id="cb26-13"><a href="#cb26-13" aria-hidden="true" tabindex="-1"></a>  )</span></code><button title="Copy to Clipboard" class="code-copy-button"><i class="bi"></i></button></pre></div>
 <div class="cell-output cell-output-stderr">
 <pre><code>Warning: Removed 71 rows containing missing values or values outside the scale range
 (`geom_point()`).
@@ -427,7 +493,12 @@ Removed 71 rows containing missing values or values outside the scale range
 <span id="cb28-2"><a href="#cb28-2" aria-hidden="true" tabindex="-1"></a>  <span class="fu">group_by</span>(Date) <span class="sc">|&gt;</span> </span>
 <span id="cb28-3"><a href="#cb28-3" aria-hidden="true" tabindex="-1"></a>  <span class="fu">summarise</span>(<span class="at">ddT =</span> <span class="fu">max</span>(temp_wew)<span class="sc">-</span><span class="fu">min</span>(temp_wew), <span class="at">ddH =</span> <span class="fu">max</span>(rh)<span class="sc">-</span><span class="fu">min</span>(rh)) <span class="sc">|&gt;</span> </span>
 <span id="cb28-4"><a href="#cb28-4" aria-hidden="true" tabindex="-1"></a>  <span class="fu">ggplot</span>(<span class="fu">aes</span>(<span class="at">x=</span> Date, <span class="at">y =</span> ddT, <span class="at">group =</span> <span class="dv">1</span>)) <span class="sc">+</span></span>
-<span id="cb28-5"><a href="#cb28-5" aria-hidden="true" tabindex="-1"></a>  <span class="fu">geom_point</span>()</span></code><button title="Copy to Clipboard" class="code-copy-button"><i class="bi"></i></button></pre></div>
+<span id="cb28-5"><a href="#cb28-5" aria-hidden="true" tabindex="-1"></a>  <span class="fu">geom_point</span>()   <span class="sc">+</span></span>
+<span id="cb28-6"><a href="#cb28-6" aria-hidden="true" tabindex="-1"></a>  <span class="fu">labs</span>(</span>
+<span id="cb28-7"><a href="#cb28-7" aria-hidden="true" tabindex="-1"></a>    <span class="at">title =</span> <span class="st">"Distribution of Daily Change in Temperature (Max - Min)"</span>,</span>
+<span id="cb28-8"><a href="#cb28-8" aria-hidden="true" tabindex="-1"></a>      <span class="at">x =</span> <span class="st">"Day Time"</span>,</span>
+<span id="cb28-9"><a href="#cb28-9" aria-hidden="true" tabindex="-1"></a>      <span class="at">y =</span> <span class="st">"Change in Temperature (°C)"</span>,</span>
+<span id="cb28-10"><a href="#cb28-10" aria-hidden="true" tabindex="-1"></a>  )</span></code><button title="Copy to Clipboard" class="code-copy-button"><i class="bi"></i></button></pre></div>
 <div class="cell-output-display">
 <div>
 <figure class="figure">
@@ -442,7 +513,12 @@ Removed 71 rows containing missing values or values outside the scale range
 <span id="cb29-2"><a href="#cb29-2" aria-hidden="true" tabindex="-1"></a>  <span class="fu">group_by</span>(Date) <span class="sc">|&gt;</span> </span>
 <span id="cb29-3"><a href="#cb29-3" aria-hidden="true" tabindex="-1"></a>  <span class="fu">summarise</span>(<span class="at">ddT =</span> <span class="fu">max</span>(temp_wew)<span class="sc">-</span><span class="fu">min</span>(temp_wew), <span class="at">ddH =</span> <span class="fu">max</span>(rh)<span class="sc">-</span><span class="fu">min</span>(rh)) <span class="sc">|&gt;</span> </span>
 <span id="cb29-4"><a href="#cb29-4" aria-hidden="true" tabindex="-1"></a>  <span class="fu">ggplot</span>(<span class="fu">aes</span>(<span class="at">x=</span> Date, <span class="at">y =</span> ddH, <span class="at">group =</span> <span class="dv">1</span>)) <span class="sc">+</span></span>
-<span id="cb29-5"><a href="#cb29-5" aria-hidden="true" tabindex="-1"></a>  <span class="fu">geom_point</span>()</span></code><button title="Copy to Clipboard" class="code-copy-button"><i class="bi"></i></button></pre></div>
+<span id="cb29-5"><a href="#cb29-5" aria-hidden="true" tabindex="-1"></a>  <span class="fu">geom_point</span>()  <span class="sc">+</span></span>
+<span id="cb29-6"><a href="#cb29-6" aria-hidden="true" tabindex="-1"></a>  <span class="fu">labs</span>(</span>
+<span id="cb29-7"><a href="#cb29-7" aria-hidden="true" tabindex="-1"></a>    <span class="at">title =</span> <span class="st">"Distribution of Daily Change in Humidity (Max - Min)"</span>,</span>
+<span id="cb29-8"><a href="#cb29-8" aria-hidden="true" tabindex="-1"></a>      <span class="at">x =</span> <span class="st">"Day Time"</span>,</span>
+<span id="cb29-9"><a href="#cb29-9" aria-hidden="true" tabindex="-1"></a>      <span class="at">y =</span> <span class="st">"Change in Humidity (%)"</span>,</span>
+<span id="cb29-10"><a href="#cb29-10" aria-hidden="true" tabindex="-1"></a>  )</span></code><button title="Copy to Clipboard" class="code-copy-button"><i class="bi"></i></button></pre></div>
 <div class="cell-output cell-output-stderr">
 <pre><code>Warning: Removed 71 rows containing missing values or values outside the scale range
 (`geom_point()`).</code></pre>
